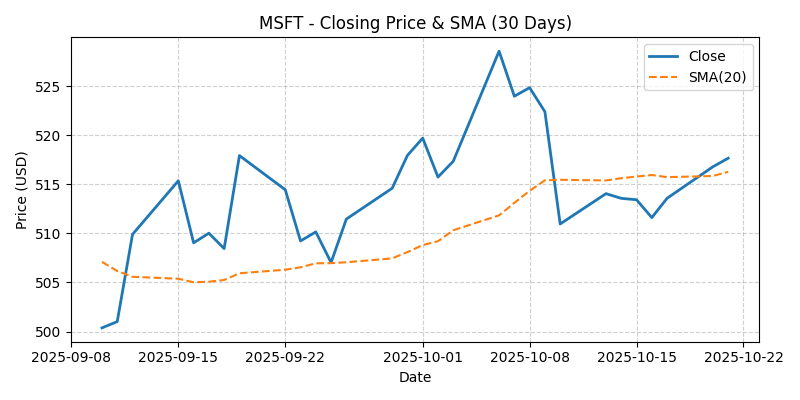
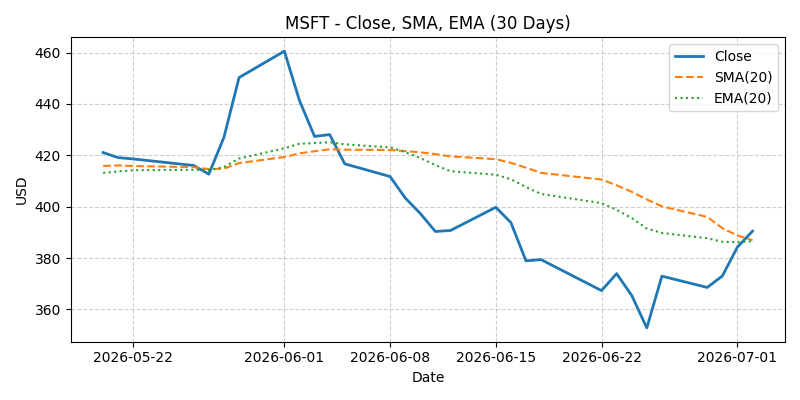
change openai to anthropic and gradio to streamlit

diff --git a/app.py b/app.py
@@ -2,13 +2,13 @@ import os
 import requests
 import pandas as pd
 import matplotlib.pyplot as plt
-import gradio as gr
-from openai import OpenAI
+import streamlit as st
+import anthropic
 from dotenv import load_dotenv
 
 # === Load API keys ===
 load_dotenv()
-client = OpenAI(api_key=os.getenv("OPENAI_API_KEY"))
+client = anthropic.Anthropic(api_key=os.getenv("ANTHROPIC_API_KEY"))
 ALPHA_KEY = os.getenv("ALPHAVANTAGE_API_KEY")
 
 
@@ -142,50 +142,51 @@ Base your reasoning on SMA, EMA, RSI, and MACD. Conclude with a Buy / Hold / Sel
 
 {result['summary']}
     """
-    completion = client.chat.completions.create(
-        model="gpt-4o",
-        messages=[
-            {"role": "system", "content": "You are a professional financial advisor who writes concise, factual analyses."},
-            {"role": "user", "content": prompt},
-        ],
+    message = client.messages.create(
+        model="claude-opus-4-8",
+        max_tokens=1024,
+        system="You are a professional financial advisor who writes concise, factual analyses.",
+        messages=[{"role": "user", "content": prompt}],
     )
-    advice = completion.choices[0].message.content
+    advice = message.content[0].text
     return result["summary"], result["chart"], advice
 
 
-# === Gradio UI ===
-with gr.Blocks(title="AI Quant Stock Advisor (Free)") as demo:
-    gr.Markdown(
-        """
-        <h1 style='text-align:center'>📈 AI Quant Stock Advisor (Free API)</h1>
-        <p style='text-align:center'>
-        Technical analysis with SMA, EMA, RSI & MACD via Alpha Vantage (free tier)
-        </p>
-        """
+# === Streamlit UI ===
+st.set_page_config(page_title="AI Quant Stock Advisor", page_icon="📈")
+
+st.markdown(
+    """
+    <h1 style='text-align:center'>📈 AI Quant Stock Advisor</h1>
+    <p style='text-align:center'>
+    Technical analysis with SMA, EMA, RSI & MACD via Alpha Vantage (free tier)
+    </p>
+    """,
+    unsafe_allow_html=True,
+)
+
+input_col, button_col = st.columns([4, 1])
+with input_col:
+    symbol_input = st.text_input(
+        "Stock Symbol",
+        placeholder="Enter e.g., AAPL  MSFT  TSLA",
     )
+with button_col:
+    st.write("")
+    st.write("")
+    analyze_clicked = st.button("🔍 Analyze", type="primary", use_container_width=True)
 
-    # Properly aligned input + button
-    with gr.Row(elem_id="input-row"):
-        symbol_input = gr.Textbox(
-            label="Stock Symbol",
-            placeholder="Enter e.g., AAPL  MSFT  TSLA",
-            scale=4
-        )
-        analyze_btn = gr.Button("🔍 Analyze", variant="primary", scale=1)
+summary_tab, advice_tab = st.tabs(["📊 Summary & Chart", "🤖 AI Recommendation"])
 
-    with gr.Tabs():
-        with gr.TabItem("📊 Summary & Chart"):
-            summary_box = gr.Markdown()
-            chart_image = gr.Image(label="Price Chart (30 Days)")
-
-        with gr.TabItem("🤖 AI Recommendation"):
-            ai_advice = gr.Markdown()
-
-    analyze_btn.click(stock_agent, inputs=symbol_input, outputs=[summary_box, chart_image, ai_advice])
-
-# Optional CSS tweak for alignment
-demo.css = """
-#input-row { align-items: center; margin-top: 10px; margin-bottom: 10px; }
-"""
-
-demo.launch()
+if analyze_clicked:
+    if not symbol_input:
+        st.warning("Please enter a stock symbol.")
+    else:
+        with st.spinner(f"Analyzing {symbol_input.upper()}..."):
+            summary, chart, advice = stock_agent(symbol_input)
+        with summary_tab:
+            st.markdown(summary)
+            if chart:
+                st.image(chart, caption="Price Chart (30 Days)")
+        with advice_tab:
+            st.markdown(advice)